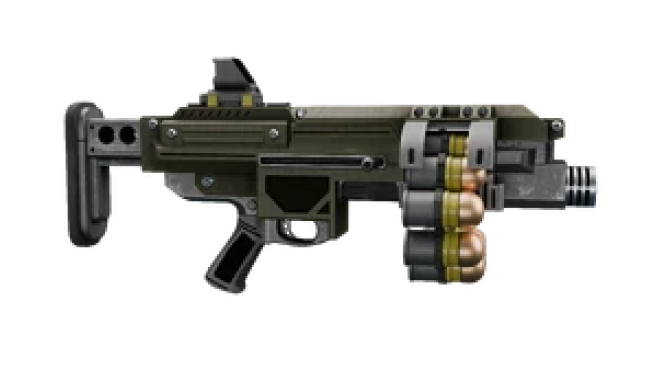
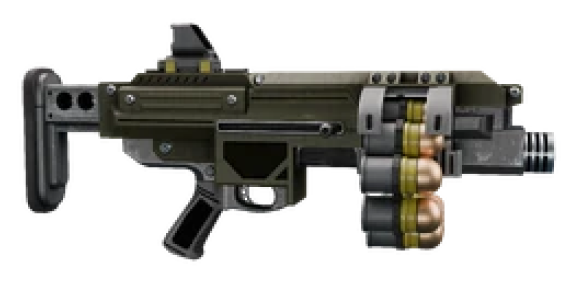
chore: Заменил изображения на более подходящие, а также добавил функцию для их подгонки

diff --git a/store/WeaponsStore.ts b/store/WeaponsStore.ts
@@ -546,7 +546,7 @@ class WeaponsStore {
       dps: null,
     },
     {
-      id: 6,
+      id: 7,
       imagePath: "/static/Weaponry/support/Gr8Image.png",
       weaponType: weaponTypes.support,
       name: "GR-8 «Безоткатная винтовка»",
@@ -560,7 +560,7 @@ class WeaponsStore {
       dps: null,
     },
     {
-      id: 7,
+      id: 8,
       imagePath: "/static/Weaponry/support/Gl21Image.png",
       weaponType: weaponTypes.support,
       name: "GL-21 «Гранатомет»",
@@ -574,7 +574,7 @@ class WeaponsStore {
       dps: null,
     },
     {
-      id: 8,
+      id: 9,
       imagePath: "/static/Weaponry/support/Ac8Image.png",
       weaponType: weaponTypes.support,
       name: "AC-8 «Автопушка»",
@@ -588,7 +588,7 @@ class WeaponsStore {
       dps: 960,
     },
     {
-      id: 9,
+      id: 10,
       imagePath: "/static/Weaponry/support/Faf14Image.png",
       weaponType: weaponTypes.support,
       name: "FAF-14 «Копье»",
@@ -602,7 +602,7 @@ class WeaponsStore {
       dps: null,
     },
     {
-      id: 10,
+      id: 11,
       imagePath: "/static/Weaponry/support/Las99Image.png",
       weaponType: weaponTypes.support,
       name: "LAS-99 Пушка «Квазар»",
@@ -616,7 +616,7 @@ class WeaponsStore {
       dps: null,
     },
     {
-      id: 11,
+      id: 12,
       imagePath: "/static/Weaponry/support/Flam40Image.png",
       weaponType: weaponTypes.support,
       name: "FLAM-40 «Огнемет»",
@@ -630,7 +630,7 @@ class WeaponsStore {
       dps: null,
     },
     {
-      id: 12,
+      id: 13,
       imagePath: "/static/Weaponry/support/Las98Image.png",
       weaponType: weaponTypes.support,
       name: "LAS-98 «Лазерная пушка»",
@@ -644,7 +644,7 @@ class WeaponsStore {
       dps: null,
     },
     {
-      id: 13,
+      id: 14,
       imagePath: "/static/Weaponry/support/Arc3Image.png",
       weaponType: weaponTypes.support,
       name: "ARC-3 «Дуговой метатель»",

diff --git a/entities/weaponryPage/weapon/Weapon.tsx b/entities/weaponryPage/weapon/Weapon.tsx
@@ -22,12 +22,33 @@ const Weapon: React.FC<WeaponProps> = ({ id, weaponType, imagePath, name }) => {
 
     weaponsStore.changeCurrentWeaponInfo(id, weaponType);
   };
+
+  const getTargetWeaponImageScale = () => {
+    switch (id) {
+      case 1:
+        return "scale-y-[0.8]";
+      case 3:
+        return "scale-[0.9]";
+      case 4:
+        return "scale-y-[0.8]";
+      case 5:
+        return "scale-y-[0.9]";
+      case 7:
+        return "scale-y-[0.9]";
+      case 9:
+        return "scale-y-[0.8]";
+      case 12:
+        return "scale-y-[0.8]";
+      case 14:
+        return "scale-[0.9]";
+    }
+  };
   return (
     <div onClick={handleCurrentWeaponInfoChange} className="weaponWidget">
       <img
         src={imagePath}
         alt=""
-        className={`${weaponType.typeNumber !== 4 ? "w-[400px] h-[160px]" : "w-[200px] h-[150px] scale-[0.9]"}`}
+        className={`${weaponType.typeNumber !== 4 ? "w-[400px] h-[160px]" : "w-[200px] h-[150px] scale-[0.9]"} ${weaponType.typeNumber === 3 ? getTargetWeaponImageScale() : ""}`}
       />
 
       <p className="weaponWidget_Text">{name}</p>
